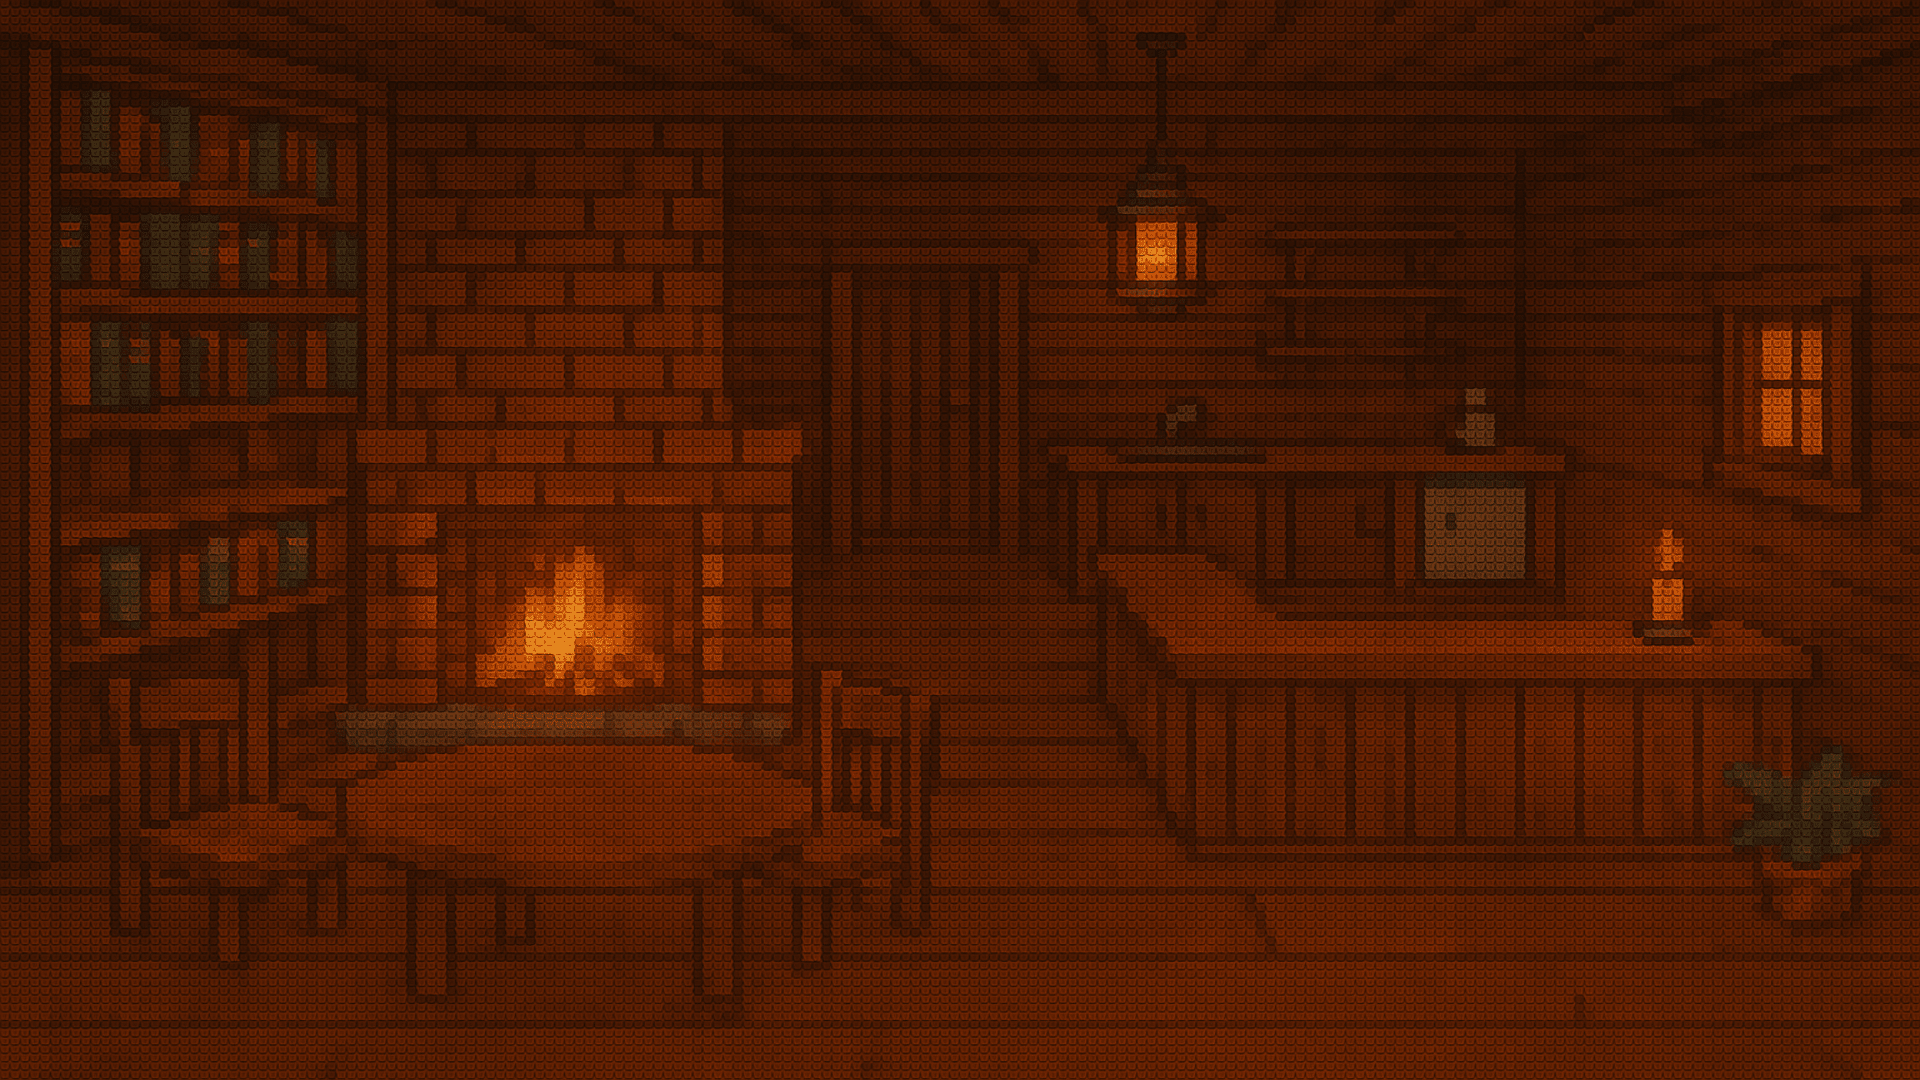
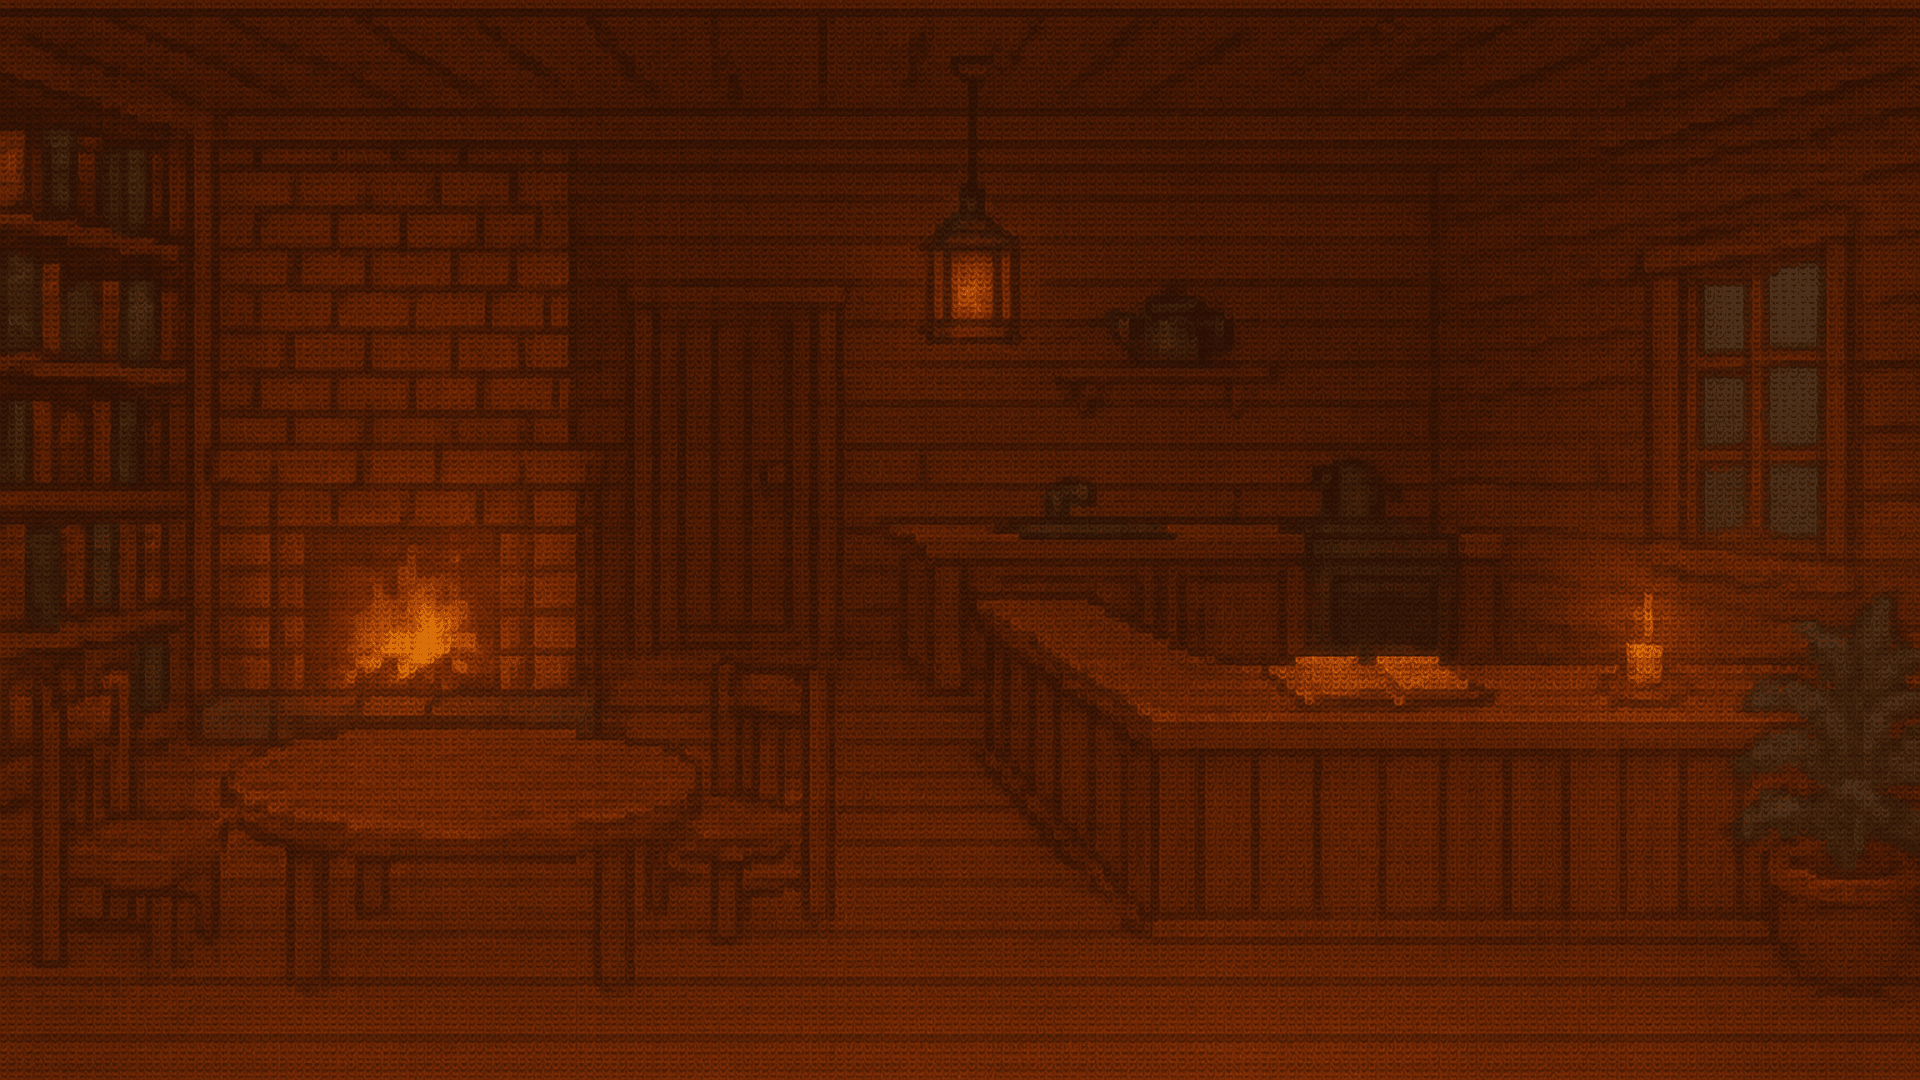
updated inside

diff --git a/inside.html b/inside.html
@@ -6,97 +6,52 @@
   <style>
     body {
       margin: 0;
-      padding: 2rem;
-      font-family: 'Georgia', serif;
-      background-color: #2b2b2b;
-      color: #f0e6d2;
-      background-image: url('your-cozy-interior.jpg'); /* Replace with your image */
+      background: url('images/inside.png') no-repeat center center fixed;
       background-size: cover;
-      background-position: center;
-      backdrop-filter: blur(2px);
+      font-family: 'Georgia', serif;
+      color: #f2e9e4;
     }
 
-    .overlay {
-      background: rgba(0, 0, 0, 0.6);
-      padding: 2rem;
-      border-radius: 1rem;
-      max-width: 800px;
-      margin: auto;
+    .nav {
+      position: absolute;
+      top: 1rem;
+      left: 1rem;
+      background: rgba(0,0,0,0.6);
+      padding: 0.5rem 1rem;
+      border-radius: 0.5rem;
     }
 
-    h1, h2 {
-      color: #ffdca8;
-    }
-
-    section {
-      margin-bottom: 2rem;
-      padding-bottom: 1rem;
-      border-bottom: 1px dashed #665d4e;
-    }
-
-    .fireplace-feed p,
-    .guestbook p,
-    .library li,
-    .blog-entry {
-      margin: 0.5rem 0;
-    }
-
-    nav {
-      margin-top: 2rem;
-    }
-
-    nav a {
-      color: #a4c2f4;
-      text-decoration: none;
+    .nav a {
+      color: #f2e9e4;
       margin-right: 1rem;
+      text-decoration: none;
+      font-size: 1rem;
     }
 
-    nav a:hover {
-      text-decoration: underline;
+    .welcome {
+      position: absolute;
+      bottom: 2rem;
+      left: 2rem;
+      background: rgba(0, 0, 0, 0.5);
+      padding: 1rem;
+      border-radius: 1rem;
+      max-width: 300px;
     }
   </style>
 </head>
 <body>
-  <div class="overlay">
-    <h1>Welcome Inside</h1>
-    <p>Dry off by the fire. Pour some tea. The rain will wait.</p>
 
-    <section class="fireplace-feed">
-      <h2>🔥 Fireplace Feed</h2>
-      <p>🪵 Lit the fire at 4pm. Smells like cedar.</p>
-      <p>📻 Playing: Rainy Jazz Vibes on loop.</p>
-      <p>🍞 Made cinnamon toast. Perfectly golden.</p>
-    </section>
-
-    <section class="library">
-      <h2>📚 The Library</h2>
-      <ul>
-        <li><strong>“Braiding Sweetgrass”</strong> by Robin Wall Kimmerer</li>
-        <li><strong>“The Left Hand of Darkness”</strong> by Ursula K. Le Guin</li>
-        <li><strong>“The Art of Stillness”</strong> by Pico Iyer</li>
-      </ul>
-    </section>
-
-    <section class="blog">
-      <h2>📝 Journal</h2>
-      <div class="blog-entry">
-        <h3>May 24, 2025 — The Beginning</h3>
-        <p>I listened to the rain until I forgot time. It reminded me how rest doesn’t have to be earned. it just is.</p>
-      </div>
-    </section>
-
-    <section class="guestbook">
-      <h2>💌 Guestbook</h2>
-      <p><em>“Love the quiet in here. — Rowan”</em></p>
-      <p><em>“Thanks for the tea and thoughts. — Sky”</em></p>
-      <!-- To make this interactive later, you could use Netlify Forms or a simple static form -->
-    </section>
-
-    <nav>
-      <a href="index.html">🏠 Back to Main Street</a>
-      <a href="outside.html">🌧 Step Outside</a>
-    </nav>
+  <div class="nav">
+    <a href="index.html">Home</a>
+    <a href="outside.html">Outside</a>
+    <a href="blog.html">Blog</a>
+    <a href="guestbook.html">Guestbook</a>
+    <a href="about.html">About</a>
   </div>
+
+  <div class="welcome">
+    <p>Welcome inside. The fire is crackling. The rain whispers outside. Take a seat and explore.</p>
+  </div>
+
 </body>
 </html>
-
